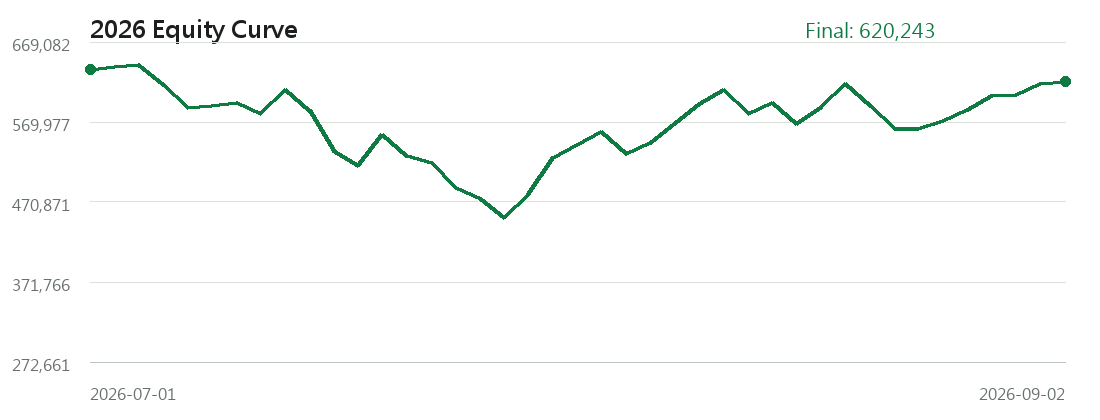
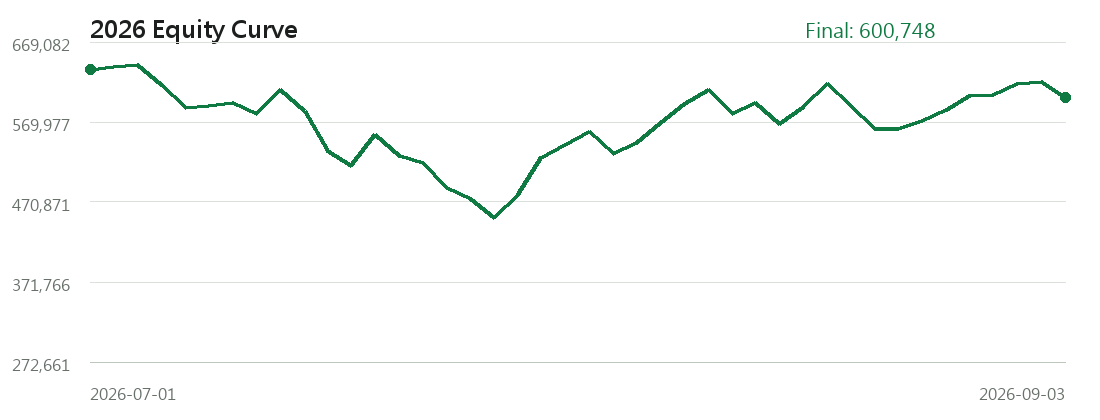
Update dashboard data

diff --git a/data.js b/data.js
@@ -1,5 +1,5 @@
 window.PUBLIC_FOLLOW_DATA = {
-  "generated_at": "2026-09-02T18:34:20.321517+08:00",
+  "generated_at": "2026-09-03T18:34:23.359213+08:00",
   "public_note": "Static follow dashboard only. Backend code, database, cache, and parameter search files are local-only.",
   "assumptions": {
     "initial_capital": 300000.0,
@@ -8,20 +8,20 @@ window.PUBLIC_FOLLOW_DATA = {
     "position_sizing": "Capital is split across up to 5 positions with integer-share sizing."
   },
   "data_status": {
-    "signal_date": "2026-09-02",
-    "latest_chip_date": "2026-09-02",
-    "latest_price_date": "2026-09-02",
-    "candidate_count": 0,
+    "signal_date": "2026-09-03",
+    "latest_chip_date": "2026-09-03",
+    "latest_price_date": "2026-09-03",
+    "candidate_count": 2,
     "warning": null
   },
   "metrics": {
     "initial_capital": 300000.0,
-    "final_value": 620243.2984176637,
+    "final_value": 600748.2984176637,
     "cash": -2227.701582336391,
-    "total_return_pct": 106.74776613922123,
-    "annualized_return_pct": 218.25619202373022,
+    "total_return_pct": 100.24943280588788,
+    "annualized_return_pct": 201.00972904276242,
     "start_date": "2026-01-16",
-    "end_date": "2026-09-02",
+    "end_date": "2026-09-03",
     "closed_trade_count": 48,
     "entry_count": 49,
     "open_position_count": 5,
@@ -276,6 +276,12 @@ window.PUBLIC_FOLLOW_DATA = {
       "equity": 620243.2984176637,
       "cash": -2227.701582336391,
       "position_count": 5
+    },
+    {
+      "date": "2026-09-03",
+      "equity": 600748.2984176637,
+      "cash": -2227.701582336391,
+      "position_count": 5
     }
   ],
   "holdings": [
@@ -285,11 +291,11 @@ window.PUBLIC_FOLLOW_DATA = {
       "quantity": 314,
       "entry_date": "2026-08-27",
       "entry_price": 368.5,
-      "current_price_date": "2026-09-02",
-      "current_price": 392.0,
-      "market_value": 123088.0,
-      "unrealized_return_pct": 6.3772048846675755,
-      "holding_days": 6,
+      "current_price_date": "2026-09-03",
+      "current_price": 375.0,
+      "market_value": 117750.0,
+      "unrealized_return_pct": 1.7639077340569909,
+      "holding_days": 7,
       "concept_tag_names": [
         "證券券商",
         "RF前端/功率放大器",
@@ -310,11 +316,11 @@ window.PUBLIC_FOLLOW_DATA = {
       "quantity": 487,
       "entry_date": "2026-08-28",
       "entry_price": 240.0,
-      "current_price_date": "2026-09-02",
-      "current_price": 229.0,
-      "market_value": 111523.0,
-      "unrealized_return_pct": -4.583333333333329,
-      "holding_days": 5,
+      "current_price_date": "2026-09-03",
+      "current_price": 223.0,
+      "market_value": 108601.0,
+      "unrealized_return_pct": -7.08333333333333,
+      "holding_days": 6,
       "concept_tag_names": [
         "導線架/封裝材料",
         "證券券商",
@@ -329,11 +335,11 @@ window.PUBLIC_FOLLOW_DATA = {
       "quantity": 312,
       "entry_date": "2026-08-31",
       "entry_price": 390.5,
-      "current_price_date": "2026-09-02",
-      "current_price": 419.5,
-      "market_value": 130884.0,
-      "unrealized_return_pct": 7.426376440460958,
-      "holding_days": 2,
+      "current_price_date": "2026-09-03",
+      "current_price": 400.0,
+      "market_value": 124800.0,
+      "unrealized_return_pct": 2.432778489116516,
+      "holding_days": 3,
       "concept_tag_names": [
         "封測",
         "證券券商",
@@ -350,11 +356,11 @@ window.PUBLIC_FOLLOW_DATA = {
       "quantity": 253,
       "entry_date": "2026-09-01",
       "entry_price": 490.0,
-      "current_price_date": "2026-09-02",
-      "current_price": 542.0,
-      "market_value": 137126.0,
-      "unrealized_return_pct": 10.612244897959178,
-      "holding_days": 1,
+      "current_price_date": "2026-09-03",
+      "current_price": 525.0,
+      "market_value": 132825.0,
+      "unrealized_return_pct": 7.14285714285714,
+      "holding_days": 2,
       "concept_tag_names": [
         "RF前端/功率放大器",
         "證券券商",
@@ -369,11 +375,11 @@ window.PUBLIC_FOLLOW_DATA = {
       "quantity": 17,
       "entry_date": "2026-09-02",
       "entry_price": 6910.0,
-      "current_price_date": "2026-09-02",
-      "current_price": 7050.0,
-      "market_value": 119850.0,
-      "unrealized_return_pct": 2.026049204052094,
-      "holding_days": 0,
+      "current_price_date": "2026-09-03",
+      "current_price": 7000.0,
+      "market_value": 119000.0,
+      "unrealized_return_pct": 1.302460202604916,
+      "holding_days": 1,
       "concept_tag_names": [
         "SiC/GaN第三代半導體",
         "功率元件",
@@ -399,7 +405,57 @@ window.PUBLIC_FOLLOW_DATA = {
     "needs_extra_cash": 2227.701582336391,
     "remaining_cash": 0.0
   },
-  "today_candidates": [],
+  "today_candidates": [
+    {
+      "rank": 1,
+      "signal_date": "2026-09-03",
+      "stock_id": "3090",
+      "company_name": "日電貿",
+      "action": "WATCH_WEAKER_THAN_CURRENT_HOLDING",
+      "reference_price": 162.5,
+      "target_amount": 120149.65968353274,
+      "suggested_quantity": 739,
+      "buy_amount": 120087.5,
+      "concept_tag_names": [
+        "MLCC/被動元件",
+        "證券券商",
+        "功率分離式元件",
+        "工具機零組件",
+        "投資控股",
+        "晶圓製程設備零組件",
+        "磁磚/陶瓷建材",
+        "票券金融",
+        "被動元件",
+        "保護元件/電感"
+      ],
+      "action_text": "觀察"
+    },
+    {
+      "rank": 2,
+      "signal_date": "2026-09-03",
+      "stock_id": "3234",
+      "company_name": "光環",
+      "action": "WATCH_WEAKER_THAN_CURRENT_HOLDING",
+      "reference_price": 194.5,
+      "target_amount": 120149.65968353274,
+      "suggested_quantity": 617,
+      "buy_amount": 120006.5,
+      "concept_tag_names": [
+        "光通訊模組",
+        "矽光子/CPO",
+        "證券券商",
+        "光纖/光纜",
+        "光纖傳輸/光通訊",
+        "太陽能",
+        "工具機零組件",
+        "投資控股",
+        "晶圓製程設備零組件",
+        "矽光子/光通訊",
+        "網安/網路設備"
+      ],
+      "action_text": "觀察"
+    }
+  ],
   "recent_entries": [
     {
       "stock_id": "6515",
